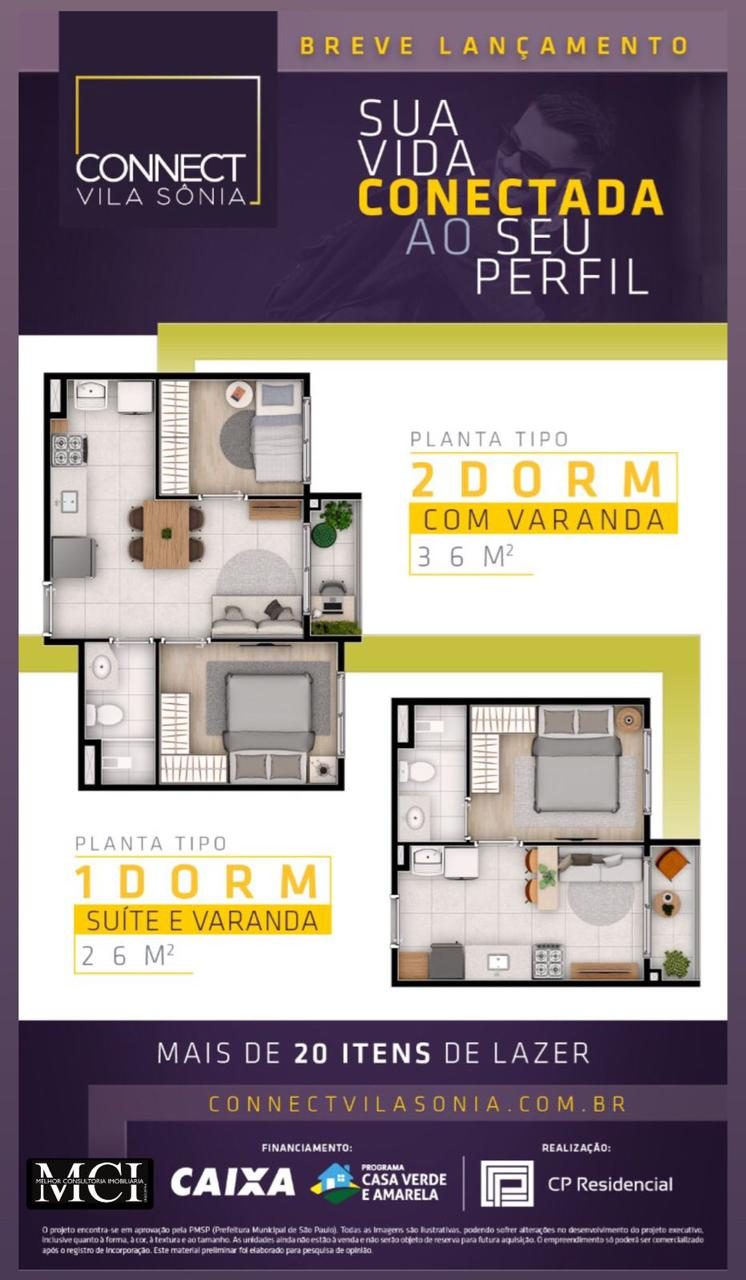
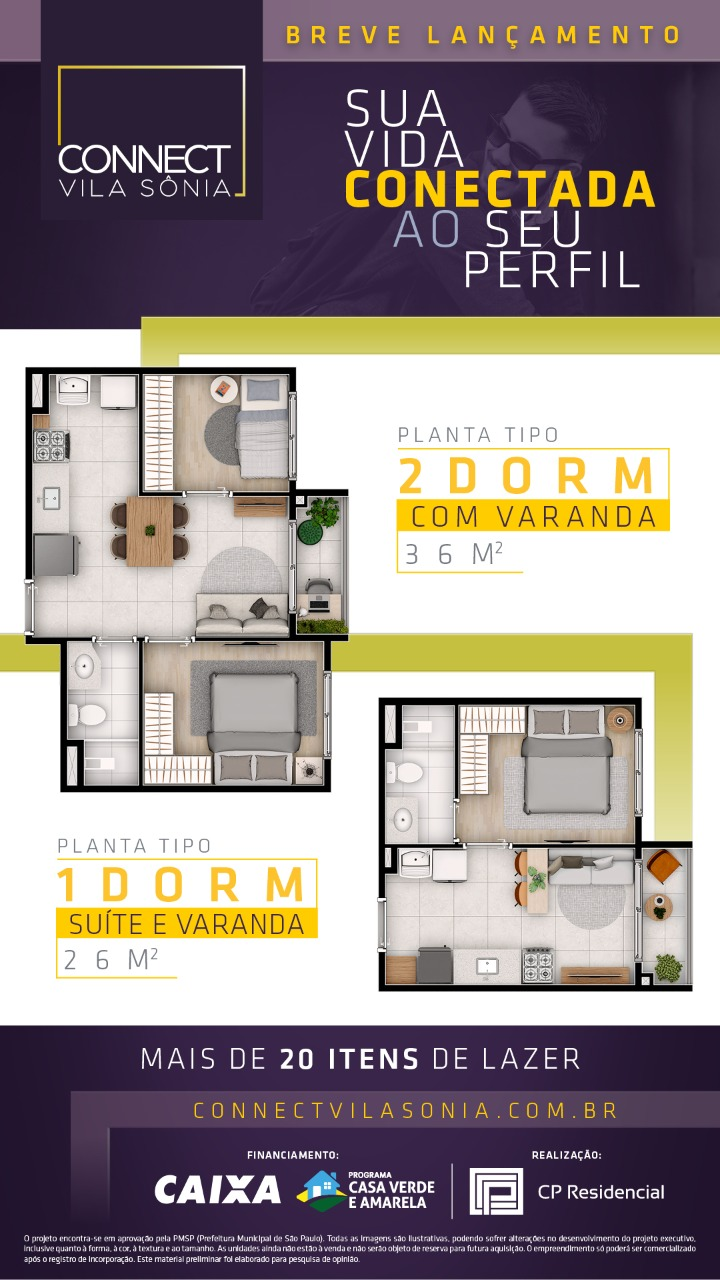
update

diff --git a/index.html b/index.html
@@ -12,33 +12,32 @@
     <link rel="stylesheet" href="/resources/css/style.css">
 </head>
 <body>
-
-    <div id="carouselExampleIndicators" class="carousel slide" data-bs-ride="carousel">
-        <div class="carousel-indicators">
-          <button type="button" data-bs-target="#carouselExampleIndicators" data-bs-slide-to="0" class="active" aria-current="true" aria-label="Slide 1"></button>
-          <button type="button" data-bs-target="#carouselExampleIndicators" data-bs-slide-to="1" aria-label="Slide 2"></button>        </div>
-        <div class="carousel-inner">
-          <div class="carousel-item active">
-            <img src="https://connectvilasonia.com.br/wp-content/uploads/2022/11/LP-LOGO-NOVO-4-e1669341410929.jpg" class="d-block w-100" alt="...">
+    <div class="container">
+        <div id="carouselExampleIndicators" class="carousel slide" data-bs-ride="carousel">
+            <div class="carousel-indicators">
+              <button type="button" data-bs-target="#carouselExampleIndicators" data-bs-slide-to="0" class="active" aria-current="true" aria-label="Slide 1"></button>
+              <button type="button" data-bs-target="#carouselExampleIndicators" data-bs-slide-to="1" aria-label="Slide 2"></button>        </div>
+            <div class="carousel-inner">
+              <div class="carousel-item active">
+                <img src="/resources/images/connectBanner.jpeg" class="d-block w-100" alt="...">
+              </div>
+              <div class="carousel-item">
+                <img src="/resources/images/connectPlanta.jpeg" class="d-block w-100" alt="...">
+              </div>
+            </div>
+            <button class="carousel-control-prev" type="button" data-bs-target="#carouselExampleIndicators" data-bs-slide="prev">
+              <span class="carousel-control-prev-icon secondary" aria-hidden="true"></span>
+              <span class="visually-hidden">Previous</span>
+            </button>
+            <button class="carousel-control-next" type="button" data-bs-target="#carouselExampleIndicators" data-bs-slide="next">
+              <span class="carousel-control-next-icon" aria-hidden="true"></span>
+              <span class="visually-hidden">Next</span>
+            </button>
           </div>
-          <div class="carousel-item">
-            <img src="/resources/images/connectPlanta.jpeg" class="d-block w-100" alt="...">
-          </div>
-        </div>
-        <button class="carousel-control-prev" type="button" data-bs-target="#carouselExampleIndicators" data-bs-slide="prev">
-          <span class="carousel-control-prev-icon" aria-hidden="true"></span>
-          <span class="visually-hidden">Previous</span>
-        </button>
-        <button class="carousel-control-next" type="button" data-bs-target="#carouselExampleIndicators" data-bs-slide="next">
-          <span class="carousel-control-next-icon" aria-hidden="true"></span>
-          <span class="visually-hidden">Next</span>
-        </button>
-      </div>
-    
+    </div>
     <a href="https://api.whatsapp.com/send?phone=+5511991601776&text=Mensagem de teste" class="float" target="_blank">
         <i class="fa fa-whatsapp my-float"></i>
     </a>
-    
 </body>
 </html>
 

diff --git a/resources/css/style.css b/resources/css/style.css
@@ -1,5 +1,24 @@
 body{
 	margin: 0px;
+	background-color: purple;
+	text-align: center;
+}
+
+.container{
+	width: 40%; 
+	display: block; 
+	margin-left: auto; 
+	margin-right: auto;
+	margin-top: 1%;
+	margin-bottom: 1%;
+}
+
+.carousel-control-prev-icon {
+ background-image: url("https://apufpel.com.br/assets/img/seta_prim.png") !important;
+}
+
+.carousel-control-next-icon {
+  background-image: url("https://apufpel.com.br/assets/img/seta_ult.png") !important;
 }
 
 .float{
